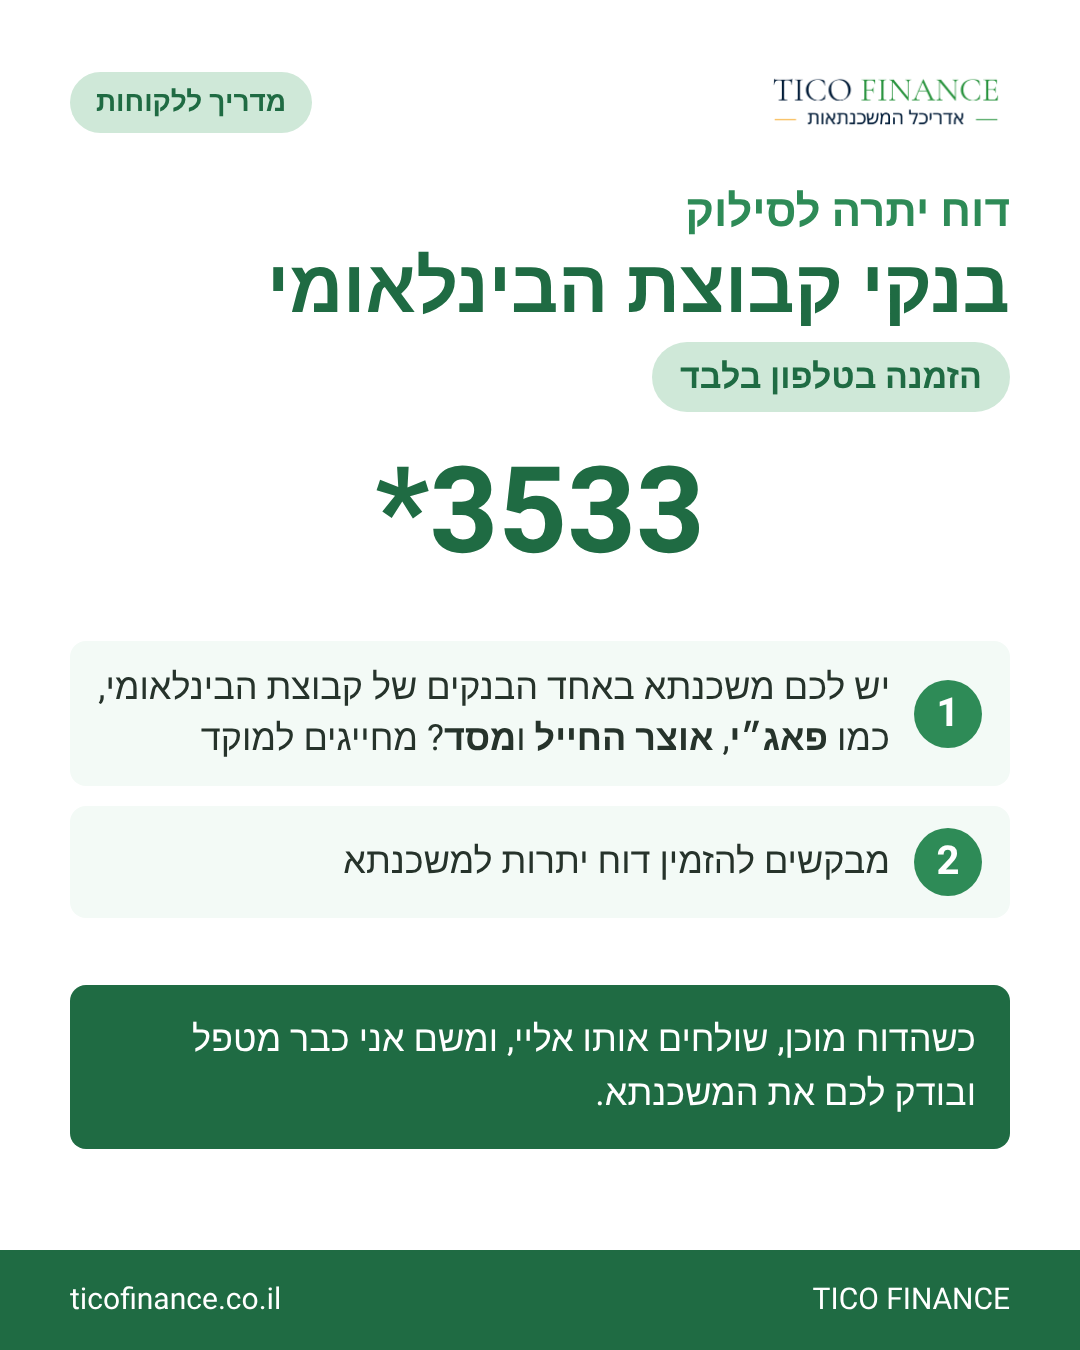
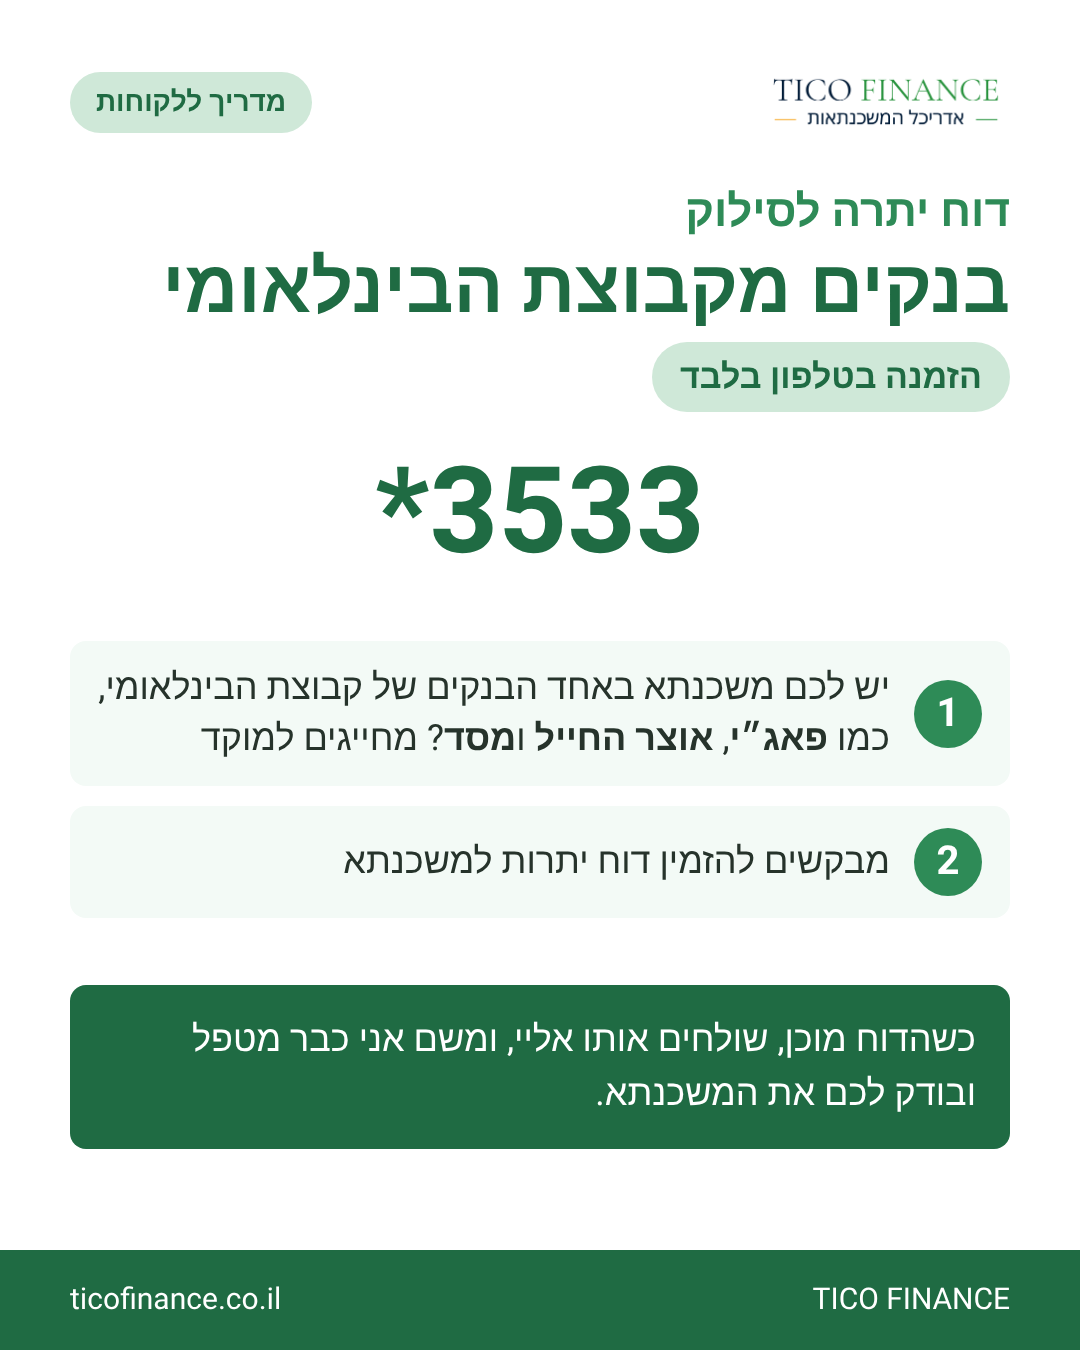
Other banks: title 'בנקים מקבוצת הבינלאומי'
Claude-Session: https://claude.ai/code/session_01LJjcMSe4snzmzWwUqmMcQ5

Changed region(s): [[0.1528, 0.1867, 0.7944, 0.2489]]

diff --git a/guides/other-banks/banks.html b/guides/other-banks/banks.html
@@ -50,7 +50,7 @@ p.lead{font-size:38px;line-height:1.5;margin-top:22px}
 </section><section class="slide" id="b1">
  <div class="top"><img src="tico-finance-he.png"><span class="tag">מדריך ללקוחות</span></div>
  <div style="font-size:44px;font-weight:700;color:var(--s)">דוח יתרה לסילוק</div>
- <h1 style="font-size:74px">בנקי קבוצת הבינלאומי</h1>
+ <h1 style="font-size:74px">בנקים מקבוצת הבינלאומי</h1>
  <div><span class="pill">הזמנה בטלפון בלבד</span></div>
  <div class="big2">*3533</div>
  <div class="steps"><div class="st"><div class="num">1</div><div>יש לכם משכנתא באחד הבנקים של קבוצת הבינלאומי, כמו <b>פאג״י</b>, <b>אוצר החייל</b> ו<b>מסד</b>? מחייגים למוקד</div></div><div class="st"><div class="num">2</div><div>מבקשים להזמין דוח יתרות למשכנתא</div></div></div>
